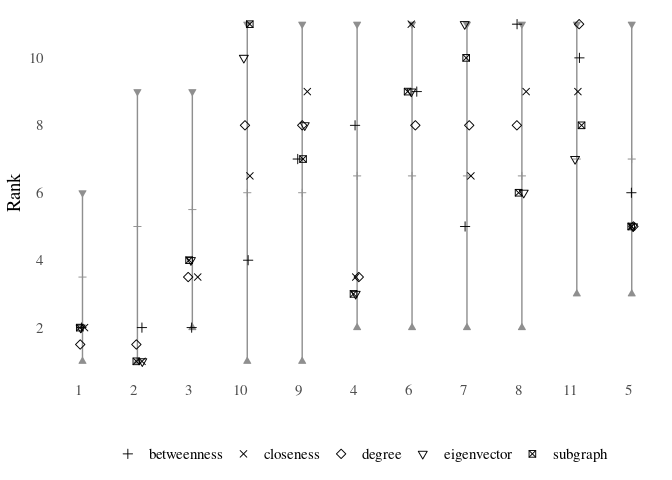
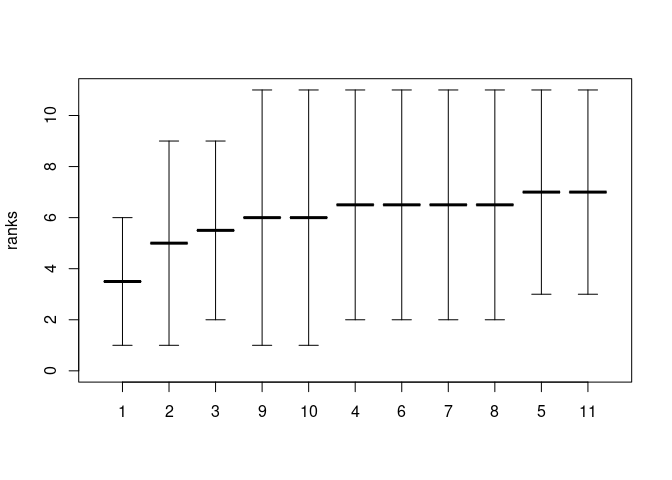
polished news and README

diff --git a/README.md b/README.md
@@ -23,7 +23,7 @@ network:
 The only degree of freedom is the choice of index. The package comes
 with an Rstudio addin (`index_builder()`), which allows to build or
 choose from more than 20 different indices. Blindly (ab)using this
-function is highly discouraged\!
+function is highly discouraged!
 
 The `netrankr` package is based on the idea that centrality is more than
 a conglomeration of indices. Decomposing them in a series of microsteps
@@ -44,7 +44,7 @@ calculate probabilistic centrality rankings.
 For a more detailed theoretical background, consult the
 [Literature](#literature) at the end of this page.
 
------
+------------------------------------------------------------------------
 
 ## Installation
 
@@ -61,7 +61,7 @@ To install the developer version from github:
 devtools::install_github("schochastics/netrankr")
 ```
 
------
+------------------------------------------------------------------------
 
 ## Simple Example
 
@@ -127,8 +127,8 @@ P
 ```
 
 [Schoch & Brandes (2016)](https://doi.org/10.1017/S0956792516000401)
-showed that \(N(u) \subseteq N[v]\) (i.e. `P[u,v]=1`) implies
-\(c(u) \leq c(v)\) for centrality indices \(c\), which are defined via
+showed that *N*(*u*) ⊆ *N*\[*v*\] (i.e. `P[u,v]=1`) implies
+*c*(*u*) ≤ *c*(*v*) for centrality indices *c*, which are defined via
 specific path algebras. These include many of the well-known measures
 like closeness (and variants), betweenness (and variants) as well as
 many walk-based indices (eigenvector and subgraph centrality, total
@@ -144,7 +144,7 @@ rank of each node. The bigger the intervals are, the more freedom exists
 for indices to rank nodes differently.
 
 ``` r
-plot_rank_intervals(P,cent.df = cent_scores,ties.method="average")
+plot(rank_intervals(P),cent.df = cent_scores,ties.method="average")
 ```
 
 <img src="man/figures/README-partial-1.png" width="80%" style="display: block; margin: auto;" />
@@ -155,27 +155,78 @@ intervals. To get the exact probabilities, the function
 
 ``` r
 res <- exact_rank_prob(P)
-str(res)
-#> List of 6
-#>  $ lin.ext      : num 739200
-#>  $ mse          : int [1:11] 1 2 3 4 5 6 7 8 9 10 ...
-#>  $ rank.prob    : num [1:11, 1:11] 0.545 0.273 0 0 0 ...
-#>   ..- attr(*, "dimnames")=List of 2
-#>   .. ..$ : chr [1:11] "1" "2" "3" "4" ...
-#>   .. ..$ : chr [1:11] "1" "2" "3" "4" ...
-#>  $ relative.rank: num [1:11, 1:11] 0 0.3333 0 0.0476 0 ...
-#>   ..- attr(*, "dimnames")=List of 2
-#>   .. ..$ : chr [1:11] "1" "2" "3" "4" ...
-#>   .. ..$ : chr [1:11] "1" "2" "3" "4" ...
-#>  $ expected.rank: Named num [1:11] 1.71 3 4.29 7.5 8.14 ...
-#>   ..- attr(*, "names")= chr [1:11] "1" "2" "3" "4" ...
-#>  $ rank.spread  : Named num [1:11] 0.958 1.897 1.725 2.54 2.16 ...
-#>   ..- attr(*, "names")= chr [1:11] "1" "2" "3" "4" ...
+res
+#> Number of possible centrality rankings:  739200 
+#> Equivalence Classes (max. possible): 11 (11)
+#> - - - - - - - - - - 
+#> Rank Probabilities (rows:nodes/cols:ranks)
+#>             1          2          3          4          5           6
+#> 1  0.54545455 0.27272727 0.12121212 0.04545455 0.01298701 0.002164502
+#> 2  0.27272727 0.21818182 0.16969697 0.12727273 0.09090909 0.060606061
+#> 3  0.00000000 0.16363636 0.21818182 0.20909091 0.16883117 0.119047619
+#> 4  0.00000000 0.02727273 0.05151515 0.07272727 0.09090909 0.106060606
+#> 5  0.00000000 0.00000000 0.01818182 0.04545455 0.07532468 0.103463203
+#> 6  0.00000000 0.05454545 0.08484848 0.10000000 0.10649351 0.108658009
+#> 7  0.00000000 0.05454545 0.08484848 0.10000000 0.10649351 0.108658009
+#> 8  0.00000000 0.02727273 0.05151515 0.07272727 0.09090909 0.106060606
+#> 9  0.09090909 0.09090909 0.09090909 0.09090909 0.09090909 0.090909091
+#> 10 0.09090909 0.09090909 0.09090909 0.09090909 0.09090909 0.090909091
+#> 11 0.00000000 0.00000000 0.01818182 0.04545455 0.07532468 0.103463203
+#>             7          8           9         10         11
+#> 1  0.00000000 0.00000000 0.000000000 0.00000000 0.00000000
+#> 2  0.03636364 0.01818182 0.006060606 0.00000000 0.00000000
+#> 3  0.07272727 0.03636364 0.012121212 0.00000000 0.00000000
+#> 4  0.11818182 0.12727273 0.133333333 0.13636364 0.13636364
+#> 5  0.12727273 0.14545455 0.157575758 0.16363636 0.16363636
+#> 6  0.10909091 0.10909091 0.109090909 0.10909091 0.10909091
+#> 7  0.10909091 0.10909091 0.109090909 0.10909091 0.10909091
+#> 8  0.11818182 0.12727273 0.133333333 0.13636364 0.13636364
+#> 9  0.09090909 0.09090909 0.090909091 0.09090909 0.09090909
+#> 10 0.09090909 0.09090909 0.090909091 0.09090909 0.09090909
+#> 11 0.12727273 0.14545455 0.157575758 0.16363636 0.16363636
+#> - - - - - - - - - - 
+#> Relative Rank Probabilities (row ranked lower than col)
+#>             1          2         3         4         5         6         7
+#> 1  0.00000000 0.66666667 1.0000000 0.9523810 1.0000000 1.0000000 1.0000000
+#> 2  0.33333333 0.00000000 0.6666667 1.0000000 0.9166667 0.8333333 0.8333333
+#> 3  0.00000000 0.33333333 0.0000000 0.7976190 1.0000000 0.7500000 0.7500000
+#> 4  0.04761905 0.00000000 0.2023810 0.0000000 0.5595238 0.4404762 0.4404762
+#> 5  0.00000000 0.08333333 0.0000000 0.4404762 0.0000000 0.3750000 0.3750000
+#> 6  0.00000000 0.16666667 0.2500000 0.5595238 0.6250000 0.0000000 0.5000000
+#> 7  0.00000000 0.16666667 0.2500000 0.5595238 0.6250000 0.5000000 0.0000000
+#> 8  0.04761905 0.00000000 0.2023810 0.5000000 0.5595238 0.4404762 0.4404762
+#> 9  0.14285714 0.25000000 0.3571429 0.6250000 0.6785714 0.5714286 0.5714286
+#> 10 0.14285714 0.25000000 0.3571429 0.6250000 0.6785714 0.5714286 0.5714286
+#> 11 0.00000000 0.08333333 0.0000000 0.4404762 0.5000000 0.3750000 0.3750000
+#>            8         9        10        11
+#> 1  0.9523810 0.8571429 0.8571429 1.0000000
+#> 2  1.0000000 0.7500000 0.7500000 0.9166667
+#> 3  0.7976190 0.6428571 0.6428571 1.0000000
+#> 4  0.5000000 0.3750000 0.3750000 0.5595238
+#> 5  0.4404762 0.3214286 0.3214286 0.5000000
+#> 6  0.5595238 0.4285714 0.4285714 0.6250000
+#> 7  0.5595238 0.4285714 0.4285714 0.6250000
+#> 8  0.0000000 0.3750000 0.3750000 0.5595238
+#> 9  0.6250000 0.0000000 0.5000000 0.6785714
+#> 10 0.6250000 0.5000000 0.0000000 0.6785714
+#> 11 0.4404762 0.3214286 0.3214286 0.0000000
+#> - - - - - - - - - - 
+#> Expected Ranks (higher values are better)
+#>        1        2        3        4        5        6        7        8 
+#> 1.714286 3.000000 4.285714 7.500000 8.142857 6.857143 6.857143 7.500000 
+#>        9       10       11 
+#> 6.000000 6.000000 8.142857 
+#> - - - - - - - - - - 
+#> SD of Rank Probabilities
+#>         1         2         3         4         5         6         7         8 
+#> 0.9583148 1.8973666 1.7249667 2.5396850 2.1599320 2.7217941 2.7217941 2.5396850 
+#>         9        10        11 
+#> 3.1622777 3.1622777 2.1599320 
+#> - - - - - - - - - -
 ```
 
-`lin.ext` is the number of possible rankings. For the graph `g` we could
-therefore come up with 739,200 indices that would rank the nodes
-differently.
+For the graph `g` we can therefore come up with 739,200 indices that
+would rank the nodes differently.
 
 `rank.prob` contains the probabilities for each node to occupy a certain
 rank. For instance, the probability for each node to be the most central
@@ -213,7 +264,7 @@ and the exact calculation becomes infeasible quite quickly and
 approximations need to be used. Check the benchmark results for
 guidelines.
 
------
+------------------------------------------------------------------------
 
 ## Theoretical Background
 

diff --git a/NEWS.md b/NEWS.md
@@ -1,10 +1,11 @@
-# netrankr 1.0.0.9999
+# netrankr 1.0.0
 
-* added S3 class `netrankr_full` (result of `exact_rank_prob()`) with print and plot functions
-* added S3 class `netrankr_interval` (result of `rank_intervals()`) with print and plot functions
-* added S3 class `netrankr_mcmc` (result of `mcmc_rank_prob()`) with print and plot functions
+* added S3 class `netrankr_full` (result of `exact_rank_prob()`) with print and plot functions (#8)
+* added S3 class `netrankr_interval` (result of `rank_intervals()`) with print and plot functions (#8)
+* added S3 class `netrankr_mcmc` (result of `mcmc_rank_prob()`) with print and plot functions (#8)
 * added `dbces11` graph (smalles graph with 5 different centers)
-* `plot_rank_intervals()` is deprecated 
+* `plot_rank_intervals()` is now deprecated 
+* ggplot2 no longer suggested
 
 
 # netrankr 0.3.0
